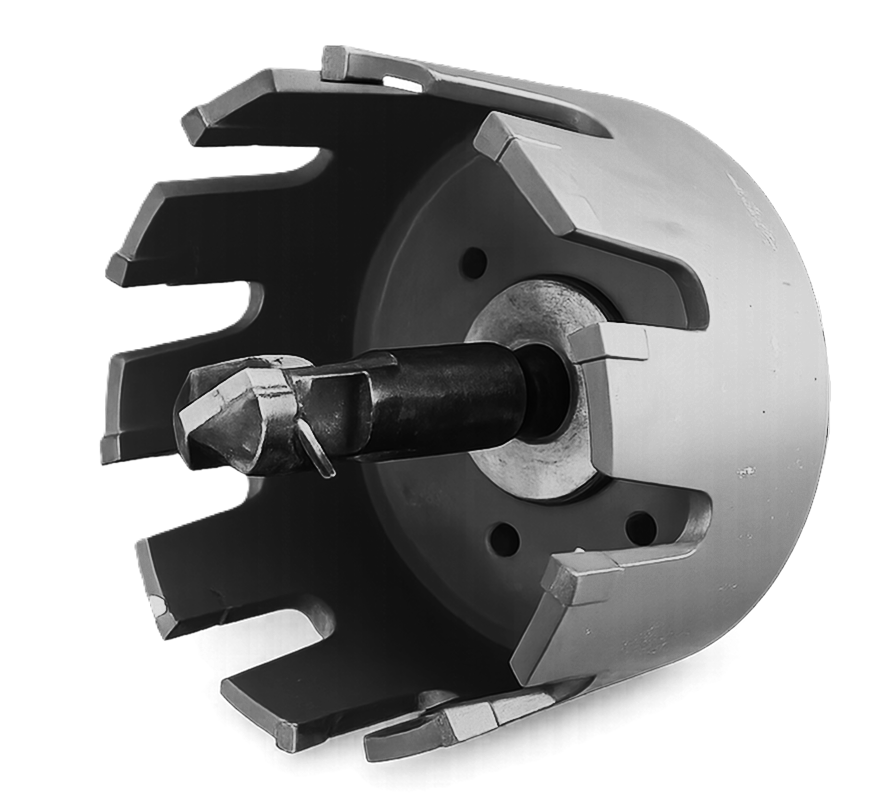
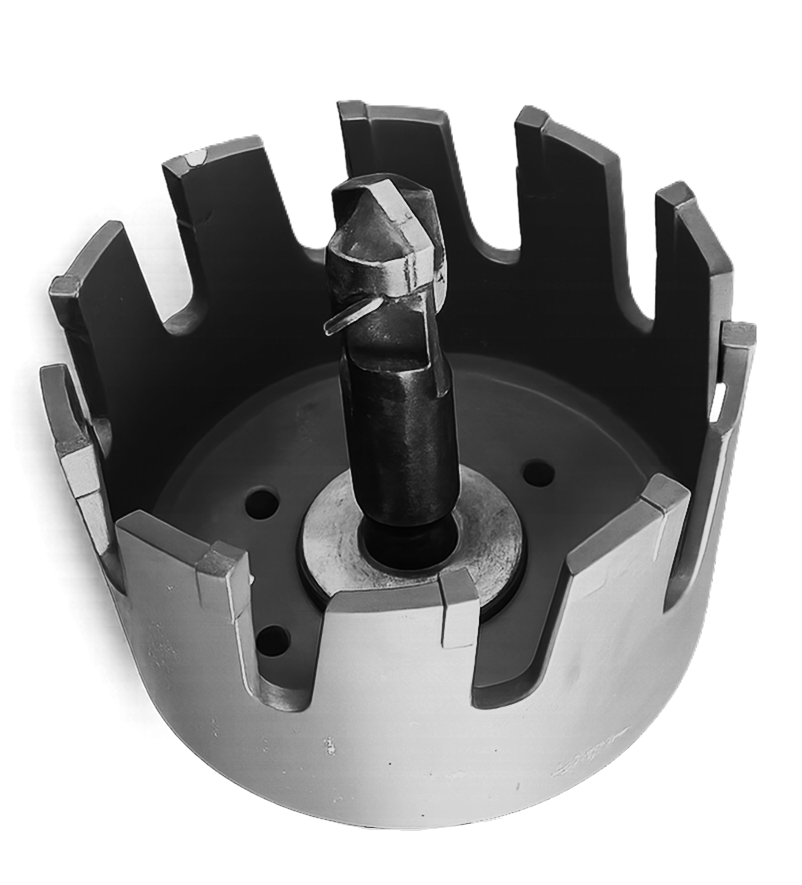
Новые фрезы + страницы машин

diff --git a/voljanka.html b/voljanka.html
@@ -3,8 +3,8 @@
 <head>
   <meta charset="UTF-8">
   <meta name="viewport" content="width=device-width, initial-scale=1.0">
-  <meta name="description" content="Chain-driven pipe cold cutting and beveling machine for large-diameter pipes (325–1420 mm) — spark-free, in-service cutting for oil &amp; gas fields, offshore platforms and underwater applications.">
-  <title>Pipe Cold Cutting &amp; Beveling Machine (325–1420 mm) — PNRS</title>
+  <meta name="description" content="Voljanka chain-driven pipe cold cutting and beveling machine for pipes 219–820 mm — spark-free, in-service cutting for oil &amp; gas fields, offshore platforms and underwater applications.">
+  <title>Pipe Cold Cutting &amp; Beveling Machine (219–820 mm) — PNRS</title>
 
   <!-- Шрифты с Google Fonts -->
   <link rel="preconnect" href="https://fonts.googleapis.com">
@@ -37,40 +37,75 @@
   <section class="about_307">
     <div class="container">
       <h1 class="section-title_sm307_1">Chain-Driven Pipe Cold Cutting &amp; Beveling Machine</h1>
-      <template>
+      
       <div class="about__grid_sm307">
         <div class="features_card_text">
-          <h3 class="section-title_sm307">325–1420 mm</h3>
+          <h3 class="section-title_sm307">219–820 mm</h3>
           <p class="card__text">Voljanka - a chain-driven pipe cold cutting and beveling machine for
-            large-diameter pipes from 325 to 1420 mm. Spark-free, in-service cutting that
-            leaves a weld-ready edge — oil &amp; gas fields, offshore platforms and
-            underwater applications.</p>
+            pipes from 219 to 820 mm in diameter. Spark-free, in-service cutting that
+            leaves a weld-ready edge on oil and gas pipelines.</p>
+          <p class="card__text">It cuts the pipe with an angle milling cutter and prepares the
+            weld edge (beveling) simultaneously — no heat, no sparks and no heat-affected
+            zone (HAZ), suitable for hazardous, hydrocarbon-containing areas where hot work
+            is prohibited.</p>
           <a href="contact.html" class="card__btn">Contact us</a>
         </div>
 
-        <img src="images/voljanka.png" alt="Pipe cold cutting machine for 325–1420 mm pipes">
+        <img src="images/voljanka.png" alt="Pipe cold cutting machine for 219–820 mm pipes">
 
         <div class="card_cutter">
           <div class="features_card_text">
             <h6 class="card__title">Annular cutters</h6>
             <p class="card__text">Consumable for the cutting machine</p>
           </div>
-          <img src="images/cutter1_2.png" alt="Annular cutters">
+          <img src="images/cutter1.png" alt="Annular cutters">
         </div>
 
         <div class="card_cutter">
           <div class="features_card_text">
-            <h6 class="card__title">Driving chain</h6>
+            <h6 class="card__title">Coming soon</h6>
             <p class="card__text">Consumable for the cutting machine</p>
           </div>
-          <img src="images/chain.jpg" alt="Driving chain">
+          <img src="https://placehold.co/300x200?text=Coming+soon" alt="Placeholder">
         </div>
       </div>
-      </template> 
+       
     </div>
   </section>
 
+  <!-- ========== ТЕХНИЧЕСКИЕ ХАРАКТЕРИСТИКИ ========== -->
+  <section class="specs">
+    <div class="container">
+      <h2 class="section-title">Technical specifications</h2>
 
+      <div class="specs__scroll">
+        <table class="spec-table">
+          <tbody>
+            <tr><th>Cutting tool</th><td>Angle / form milling cutter, with simultaneous beveling</td></tr>
+            <tr><th>Cutting-tool rotation speed</th><td>54 ± 2 rpm</td></tr>
+            <tr><th>Cutting-tool feed rate</th><td>27 ± 2 mm/min</td></tr>
+            <tr><th>Pipe cutting time</th><td>20 min (Ø219) to 69 min (Ø820)</td></tr>
+            <tr><th>Max cutting depth per pass — cutter Ø135 × 25</th><td>12 mm</td></tr>
+            <tr><th>Max cutting depth per pass — cutter Ø140 × 25</th><td>16 mm</td></tr>
+            <tr><th>Cut-contour mismatch, max</th><td>2.0 mm</td></tr>
+            <tr><th>Drive</th><td>Electric — 1.5 kW, 1500 rpm</td></tr>
+            <tr><th>Coolant (cutting-fluid) supply</th><td>100 l/h at 0.75 ± 0.25 MPa</td></tr>
+            <tr><th>Power supply</th><td>380 V / 50 Hz, min 5 kW</td></tr>
+            <tr><th>Overall dimensions (L × W × H)</th><td>790 × 395 × 310 mm</td></tr>
+            <tr><th>Weight, max</th><td>95 kg</td></tr>
+            <tr><th>Explosion protection</th><td>Hazardous areas Zone 1 &amp; 2 — Ex marking II Gb c/k IIA T3</td></tr>
+          </tbody>
+        </table>
+      </div>
+
+      <p class="specs__note">Explosion-proof design certified to Russian standards
+        GOST 31438.1 (≈ EN 1127-1), GOST 30852.11 &amp; 30852.5 (gas group IIA,
+        temperature class T3 — per IEC 60079) and the PUE electrical code, ch. 7.3
+        (≈ IEC 60079-14); climatic version per GOST 15150 (≈ IEC 60721).</p>
+      <p class="specs__note">Supplied as a complete set: machine with electric motor,
+        control system, coolant-supply system, grounding device and documentation.</p>
+    </div>
+  </section>
 
   </main>
 

diff --git a/css/style.css b/css/style.css
@@ -293,6 +293,7 @@ a {
   display: grid;
   grid-template-columns: 1fr 1fr;
   align-items: center;
+  align-self: stretch; /* карточки-расходники в ряду одинаковой высоты */
   gap: 16px;
   background: var(--color-surface);
   border: 1px solid var(--color-border);
@@ -310,6 +311,53 @@ a {
   max-height: 180px;
   width: auto;
   justify-self: center;
+}
+
+
+/* ============================================
+   ТАБЛИЦА ТЕХ. ХАРАКТЕРИСТИК
+   ============================================ */
+.specs {
+  padding: 20px 0 80px;
+}
+
+.specs__scroll {
+  overflow-x: auto; /* на узких экранах таблица скроллится, а не ломает вёрстку */
+}
+
+.spec-table {
+  width: 100%;
+  border-collapse: collapse;
+  font-size: 15px;
+}
+
+.spec-table th,
+.spec-table td {
+  text-align: left;
+  padding: 12px 16px;
+  border-bottom: 1px solid var(--color-border);
+  vertical-align: top;
+}
+
+.spec-table th {
+  width: 50%;
+  font-weight: 600;
+  color: var(--color-text);
+}
+
+.spec-table td {
+  color: var(--color-muted);
+}
+
+.spec-table tr:last-child th,
+.spec-table tr:last-child td {
+  border-bottom: none;
+}
+
+.specs__note {
+  margin-top: 16px;
+  font-size: 13px;
+  color: var(--color-muted);
 }
 
 
@@ -465,6 +513,11 @@ a {
   }
 
   .features__grid {
+    grid-template-columns: 1fr;
+  }
+
+  /* Карточки продукции: текст и фото в столбик, а не рядом */
+  .card {
     grid-template-columns: 1fr;
   }
 

diff --git a/cutters.html b/cutters.html
@@ -3,8 +3,8 @@
 <head>
   <meta charset="UTF-8">
   <meta name="viewport" content="width=device-width, initial-scale=1.0">
-  <meta name="description" content="Annular and profile cutters for pipe-cutting and hot tapping machines. High precision across a wide range of pipe diameters.">
-  <title>Annular &amp; Profile Cutters — PNRS</title>
+  <meta name="description" content="Aftermarket annular cutters (hole saws) and angle milling cutters made to fit T.D. Williamson hot tapping and FEIN pipe cold cutting &amp; beveling machines — equivalent to OEM originals.">
+  <title>Annular &amp; Profile Cutters for Hot Tapping &amp; Cold Cutting — PNRS</title>
 
   <!-- Шрифты с Google Fonts -->
   <link rel="preconnect" href="https://fonts.googleapis.com">
@@ -35,17 +35,17 @@
   <section class="about_307">
     <div class="container">
       <h1 class="section-title_sm307_1">Annular &amp; Profile Cutters</h1>
-        <template>
+        
         <div class="about__grid_sm307">
         <div class="features_card_text">
           <h3 class="section-title_sm307">Cutters</h3>
           <p class="card__text">High-precision annular and profile cutters for both
             pipe cold cutting and hot tapping machines — engineered for fast, clean and
             reliable cutting across a wide range of pipe diameters and wall thicknesses.</p>
-          <p class="card__text">We supply two cutter families: <strong>angle milling
-            cutters</strong> for pipe cold cutting &amp; beveling machines, and
-            <strong>annular cutters</strong> for hot tapping &amp; line isolation
-            equipment.</p>
+          <p class="card__text">We manufacture two families of <strong>aftermarket</strong>
+            cutters for leading OEM machines: <strong>angle milling cutters</strong> for
+            FEIN pipe cold cutting &amp; beveling machines, and <strong>annular
+            cutters</strong> for T.D. Williamson hot tapping &amp; isolation machines.</p>
           <a href="contact.html" class="card__btn">Contact us</a>
         </div>
 
@@ -54,10 +54,11 @@
 
         <div class="card_cutter">
           <div class="features_card_text">
-            <h6 class="card__title">Angle milling cutters (FEIN)</h6>
-            <p class="card__text">For pipe cold cutting &amp; beveling machines. Machine
-              a clean, weld-ready bevel across a wide range of pipe diameters and wall
-              thicknesses.</p>
+            <h6 class="card__title">Angle milling cutters for FEIN machines</h6>
+            <p class="card__text">Aftermarket profile / angle milling cutters — equivalent
+              to the FEIN original — manufactured to fit FEIN pipe cold cutting &amp;
+              beveling machines. They handle edge preparation and machine a clean,
+              weld-ready bevel across a wide range of pipe diameters and wall thicknesses.</p>
           </div>
           <!-- Замени на фото угловых фрез -->
           <img src="images/cutter1.png" alt="Angle milling cutters (FEIN) for pipe cold cutting machines">
@@ -65,15 +66,18 @@
 
         <div class="card_cutter">
           <div class="features_card_text">
-            <h6 class="card__title">Annular cutters (T.D. Williamson)</h6>
-            <p class="card__text">For Hot Tapping &amp; Isolation equipment. Cut the
-              branch outlet on live, pressurized pipelines without interrupting flow.</p>
+            <h6 class="card__title">Annular cutters for T.D. Williamson machines</h6>
+            <p class="card__text">Aftermarket annular cutters (hole-saw type) — equivalent
+              to the T.D. Williamson original — manufactured to fit T.D. Williamson hot
+              tapping &amp; isolation machines. They cut the branch outlet through the pipe
+              wall on live, pressurized pipelines without interrupting flow, retaining the
+              cut-out coupon.</p>
           </div>
           <!-- Замени на фото корончатых фрез -->
           <img src="images/cuttertdwilliamson.png" alt="Annular cutters (T.D. Williamson) for hot tapping and isolation">
         </div>
       </div> 
-      </template>
+      
     </div>
   </section>
 

diff --git a/index.html b/index.html
@@ -73,8 +73,8 @@
         <div class="card">
           <div class="features_card_text">
             <h3 class="card__title">Pipe cold cutting &amp; beveling machine</h3>
-            <h3 class="card__title">(219–820 mm)</h3>
-            <p class="card__text">SM-307 - chain-driven, spark-free cutting of in-service pipes, no heat, no sparks, weld-ready edge.</p>
+            <h3 class="card__title">(325–1420 mm)</h3>
+            <p class="card__text">Chain-driven, spark-free cutting of large-diameter in-service pipes, no heat, no sparks, weld-ready edge.</p>
             <a href="sm-307.html" class="card__btn">View details</a>
           </div>
           <img src="images/sm-307imgW.png" alt="Pipe cold cutting machine SM-307">
@@ -82,11 +82,11 @@
         <div class="card">
           <div class="features_card_text">
             <h3 class="card__title">Pipe cold cutting &amp; beveling machine</h3>
-            <h3 class="card__title">(325–1420 mm)</h3>
-            <p class="card__text">Chain-driven, spark-free cutting of large-diameter in-service pipes - no heat, no sparks, weld-ready edge.</p>
+            <h3 class="card__title">(219–820 mm)</h3>
+            <p class="card__text">Chain-driven, spark-free cutting in-service pipes, no heat, no sparks, weld-ready edge.</p>
             <a href="voljanka.html" class="card__btn">View details</a>
           </div>
-          <img src="images/voljanka.png" alt="Pipe cold cutting machine for 325–1420 mm pipes">
+          <img src="images/voljanka.png" alt="Pipe cold cutting machine for 219–820 mm pipes">
         </div>
         <div class="card card--hottap">
           <div class="features_card_text">
@@ -98,16 +98,16 @@
         </div>
         <div class="card">
           <div class="features_card_text">
-            <h3 class="card__title">Angle milling cutters (FEIN)</h3>
-            <p class="card__text">Angle milling cutters for pipe cold cutting &amp; beveling machines - clean, weld-ready bevel across a wide range of diameters.</p>
+            <h3 class="card__title">Angle milling cutters for FEIN machines</h3>
+            <p class="card__text">Aftermarket profile / angle milling cutters — equivalent to the FEIN original, made to fit FEIN pipe cold cutting &amp; beveling machines for a clean, weld-ready bevel across a wide range of pipe diameters.</p>
             <a href="cutters.html" class="card__btn">View details</a>
           </div>
           <img src="images/cutter1.png" alt="Angle milling cutters (FEIN) for pipe cold cutting machines">
         </div>
         <div class="card">
           <div class="features_card_text">
-            <h3 class="card__title">Annular cutters (T.D. Williamson)</h3>
-            <p class="card__text">Annular cutters for Hot Tapping &amp; Isolation equipment - cut branch outlets on live, pressurized pipelines.</p>
+            <h3 class="card__title">Annular cutters for T.D. Williamson machines</h3>
+            <p class="card__text">Aftermarket annular cutters (hole saws) — equivalent to the T.D. Williamson original, made to fit T.D. Williamson hot tapping machines. Cut branch outlets on live, pressurized pipelines without interrupting flow.</p>
             <a href="cutters.html" class="card__btn">View details</a>
           </div>
           <img src="images/cuttertdwilliamson.png" alt="Annular cutters (T.D. Williamson) for hot tapping and isolation">

diff --git a/UKnV.html b/UKnV.html
@@ -35,11 +35,11 @@
   <section class="about_307">
     <div class="container">
       <h1 class="section-title_sm307_1">Hot Tapping Machine (Pressure Tapping Machine)</h1>
-      <template>
+      
       <div class="about__grid_sm307">
         <div class="features_card_text">
-          <h3 class="section-title_sm307">UKhV</h3>
-          <p class="card__text">The UKhV hot tapping equipment makes new branch
+          <h3 class="section-title_sm307">Hot tapping machines — 50mm, 150mm, 300mm</h3>
+          <p class="card__text">The "UKhV" hot tapping equipment makes new branch
             connections on live, pressurized pipelines — without interrupting flow or
             shutting the line down.</p>
           <a href="contact.html" class="card__btn">Contact us</a>
@@ -57,13 +57,13 @@
 
         <div class="card_cutter">
           <div class="features_card_text">
-            <h6 class="card__title">Coming soon</h6>
+            <h6 class="card__title">Shell cutter & pilot drill</h6>
             <p class="card__text">Расходник для УКхВ</p>
           </div>
-          <img src="https://placehold.co/300x200?text=Coming+soon" alt="Placeholder">
+          <img src="images/cutterUKnV.png" alt="Placeholder">
         </div>
       </div>
-      </template>
+      
     </div> 
   </section>
 

diff --git a/sm-307.html b/sm-307.html
@@ -37,10 +37,10 @@
   <section class="about_307">
     <div class="container">
       <h1 class="section-title_sm307_1">Chain-Driven Pipe Cold Cutting &amp; Beveling Machine</h1>
-      <template>
+     
       <div class="about__grid_sm307">
         <div class="features_card_text">
-          <h3 class="section-title_sm307">219–820 mm</h3>
+          <h3 class="section-title_sm307">325–1420 mm</h3>
           <p class="card__text">The SM-307 is a chain-driven pipe cold cutting and
             beveling machine for spark-free, in-service cutting that leaves a weld-ready
             edge — oil &amp; gas fields, offshore platforms and underwater applications.</p>
@@ -54,18 +54,18 @@
             <h6 class="card__title">Annular cutters</h6>
             <p class="card__text">Расходник для СМ-307</p>
           </div>
-          <img src="images/cutter1_2.png" alt="Annular cutters for SM-307">
+          <img src="images/cutterpipe307.png" alt="Annular cutters for SM-307">
         </div>
 
         <div class="card_cutter">
           <div class="features_card_text">
-            <h6 class="card__title">Driving chain</h6>
+            <h6 class="card__title">Coming soon</h6>
             <p class="card__text">Расходник для СМ-307</p>
           </div>
-          <img src="images/chain.jpg" alt="Driving chain for SM-307">
+          <img src="https://placehold.co/300x200?text=Coming+soon" alt="Placeholder">
         </div>
       </div>
-      </template> 
+     
     </div>
   </section>
 